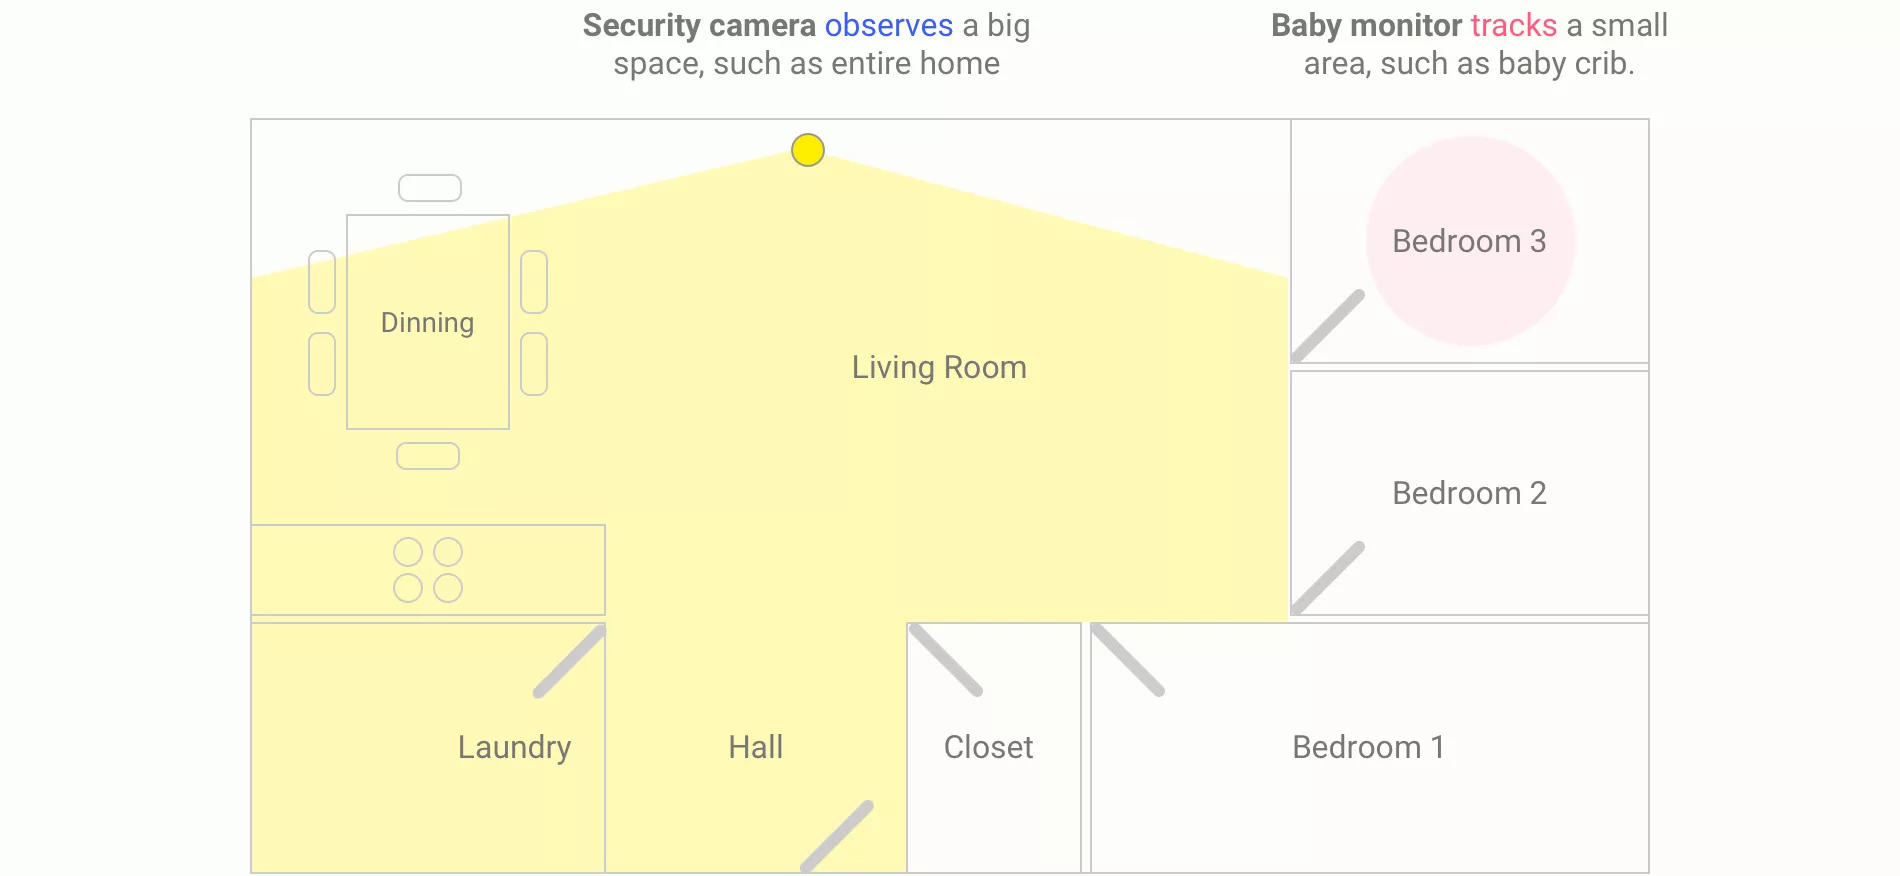
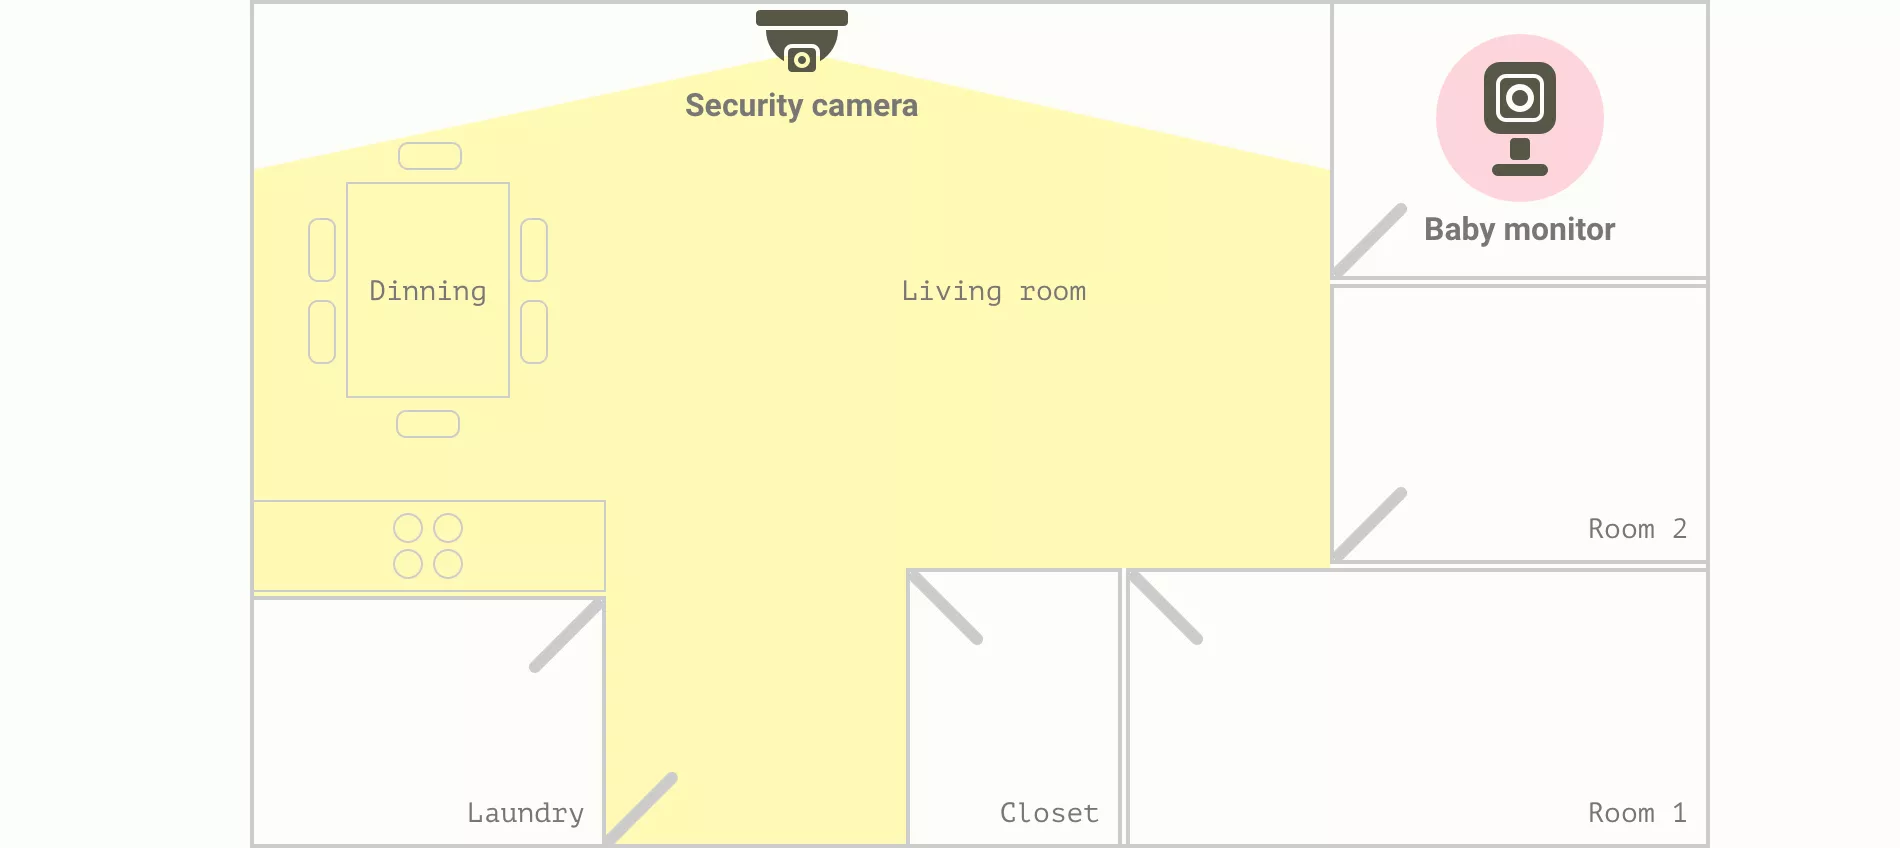
update monitor

diff --git a/monitor.html b/monitor.html
@@ -1,5 +1,6 @@
 <!DOCTYPE html>
-<html lang="en"><!-- InstanceBegin template="/Templates/base.dwt" codeOutsideHTMLIsLocked="false" -->
+<html lang="en">
+<!-- InstanceBegin template="/Templates/base.dwt" codeOutsideHTMLIsLocked="false" -->
 <head>
 <meta charset="UTF-8">
 <meta http-equiv="X-UA-Compatible" content="IE=edge">
@@ -9,9 +10,8 @@
 <!-- InstanceEndEditable -->
 <!-- Bootstrap -->
 <link href="css/bootstrap-4.4.1.css" rel="stylesheet">
-	<link href="css/myStyle.css" rel="stylesheet" type="text/css">
+<link href="css/myStyle.css" rel="stylesheet" type="text/css">
 
-	
 <!-- my style sheet -->
 <link href="css/myStyle.css" rel="stylesheet" type="text/css">
 </head>
@@ -25,13 +25,10 @@
     <button class="navbar-toggler" id="myNavToggle" type="button" data-toggle="collapse" data-target="#MyNavBarContent"> <span class="navbar-toggler-icon"></span> </button>
     <div class="collapse navbar-collapse" id="MyNavBarContent">
       <ul class="navbar-nav ml-auto">
-		 
         <li class="nav-item"><a class="nav-link" href="index.html">WORKS <span class="sr-only">(current)</span></a></li>
-		  <!--<li class="nav-item"><a class="nav-link" href="resume.html">RESUME</a></li>-->
+        <!--<li class="nav-item"><a class="nav-link" href="resume.html">RESUME</a></li>-->
         <li class="nav-item"><a class="nav-link" href="about.html">ABOUT</a></li>
-		
       </ul>
-      
     </div>
   </div>
 </nav>
@@ -61,7 +58,6 @@
             <li class="nav-item"><a href="#list-item-3" class="nav-link">Design Considerations</a></li>
             <li class="nav-item"><a href="#list-item-4" class="nav-link">The User Flow</a></li>
             <li class="nav-item"><a href="#list-item-5" class="nav-link">User Interfaces</a></li>
-        
           </ul>
         </nav>
       </div>
@@ -84,12 +80,9 @@
           </div>
         </div>
         <div class="mySectionGroup">
-          <h2 id="list-item-2"><span class="headingTag">Approach</span><br>
-            Find the MVP</h2>
-        </div>
-        <div class="mySectionGroup">
-          <h3>1. Distinguishing Between Security Cameras and Baby Monitors</h3> <div class="genScreenshot"><img src="images/monitor/monitor_house.webp"/>
-            <p>Baby monitors are primaryly for close-range observation.</p>
+          <h3>1. Distinguishing Between Security Cameras and Baby Monitors</h3>
+          <div class="genScreenshot"><img src="images/monitor/monitor_house.webp"/>
+            <p>↑ An example layout of a 3-bedroom house. <b>The security camera</b> is usually placed where it can cover key points for comprehensive surveillance whereas <b>the baby monitor</b> is placed near the crib.</p>
           </div>
           <table class="myTable">
             <tbody>
@@ -110,18 +103,22 @@
               </tr>
             </tbody>
           </table>
-			
+        </div>
+        <div class="mySectionGroup">
+          <h2 id="list-item-2"><span class="headingTag">Approach</span><br>
+            Find the MVP</h2>
         </div>
         <div class="mySectionGroup">
           <h3>2. Finding New parents' Jobs-to-be-Done</h3>
           <div class="genScreenshot"><img src="images/monitor/monitor_mood.webp"/>
-            <p>New parents' mood may swing for their baby.</p>
+            <p>↑ New parents' moods may swing when their baby is out of sight.<br>
+              The baby monitor's job is to help parents remotely check if their little one is ok.</p>
           </div>
         </div>
         <div class="mySectionGroup">
           <h3>3. Identifying the Critical Step in the User Journey</h3>
           <div class="genScreenshot"><img src="images/monitor/monitor_journey.webp"/>
-            <p>Instant live video access is crucial for users.</p>
+            <p>↑ Instant live video access is crucial for users.</p>
           </div>
         </div>
         <div class="mySectionGroup">
@@ -131,7 +128,7 @@
         <div class="mySectionGroup">
           <h3>1. Adjusting the video quality automatically to adapt the connection</h3>
           <div class="genScreenshot"><img src="images/monitor/monitor_quality.webp"/>
-            <p>To ensure an uninterrupted streaming, the system automatically adjust the video quality based on internet connection strength.</p>
+            <p>↑ To ensure an uninterrupted streaming, the system automatically adjust the video quality based on internet connection strength.</p>
           </div>
         </div>
         <div class="mySectionGroup">
@@ -148,7 +145,9 @@
             <li>Record full HD 1080P</li>
           </ol>
           </p>
-          <div class="genScreenshot"><img src="images/monitor/monitor_config.webp"/><p>We turn off many features by default to prevent unexpected incidents.</p> </div>
+          <div class="genScreenshot"><img src="images/monitor/monitor_config.webp"/>
+            <p>↑ We turn off many features by default to prevent unexpected incidents.</p>
+          </div>
         </div>
         <div class="mySectionGroup">
           <h2 id="list-item-4"><span class="headingTag">Design</span><br>
@@ -161,10 +160,9 @@
         <div class="mySectionGroup">
           <h2 id="list-item-5"><span class="headingTag">Design</span><br>
             User Interfaces</h2>
-          <div class="genScreenshot"><img src="images/monitor/monitor_UI.webp"/>
-          </div>
+          <div class="genScreenshot"><img src="images/monitor/monitor_UI.webp"/> </div>
           <div class="genScreenshot"><img src="images/monitor/monitor_activity.webp"/>
-            <p>The activity log allows parents to stay informed about their baby's activities when they are away from the room.</p>
+            <p>↑ The activity log allows parents to stay informed about their baby's activities when they are away from the room.</p>
           </div>
         </div>
       </main>
@@ -196,10 +194,11 @@
 
 <!-- Include all compiled plugins (below), or include individual files as needed --> 
 <script src="js/popper.min.js"></script> 
-<script src="js/bootstrap-4.4.1.js"></script>
-	<!-- Google font -->
+<script src="js/bootstrap-4.4.1.js"></script> 
+<!-- Google font -->
 <link rel="preconnect" href="https://fonts.googleapis.com">
 <link rel="preconnect" href="https://fonts.gstatic.com" crossorigin>
 <link href="https://fonts.googleapis.com/css2?family=Open+Sans:wght@300;400;600&family=Roboto+Serif:ital,wght@0,100;0,200;0,400;1,100;1,200&display=swap" rel="stylesheet">
 </body>
-<!-- InstanceEnd --></html>
+<!-- InstanceEnd -->
+</html>
